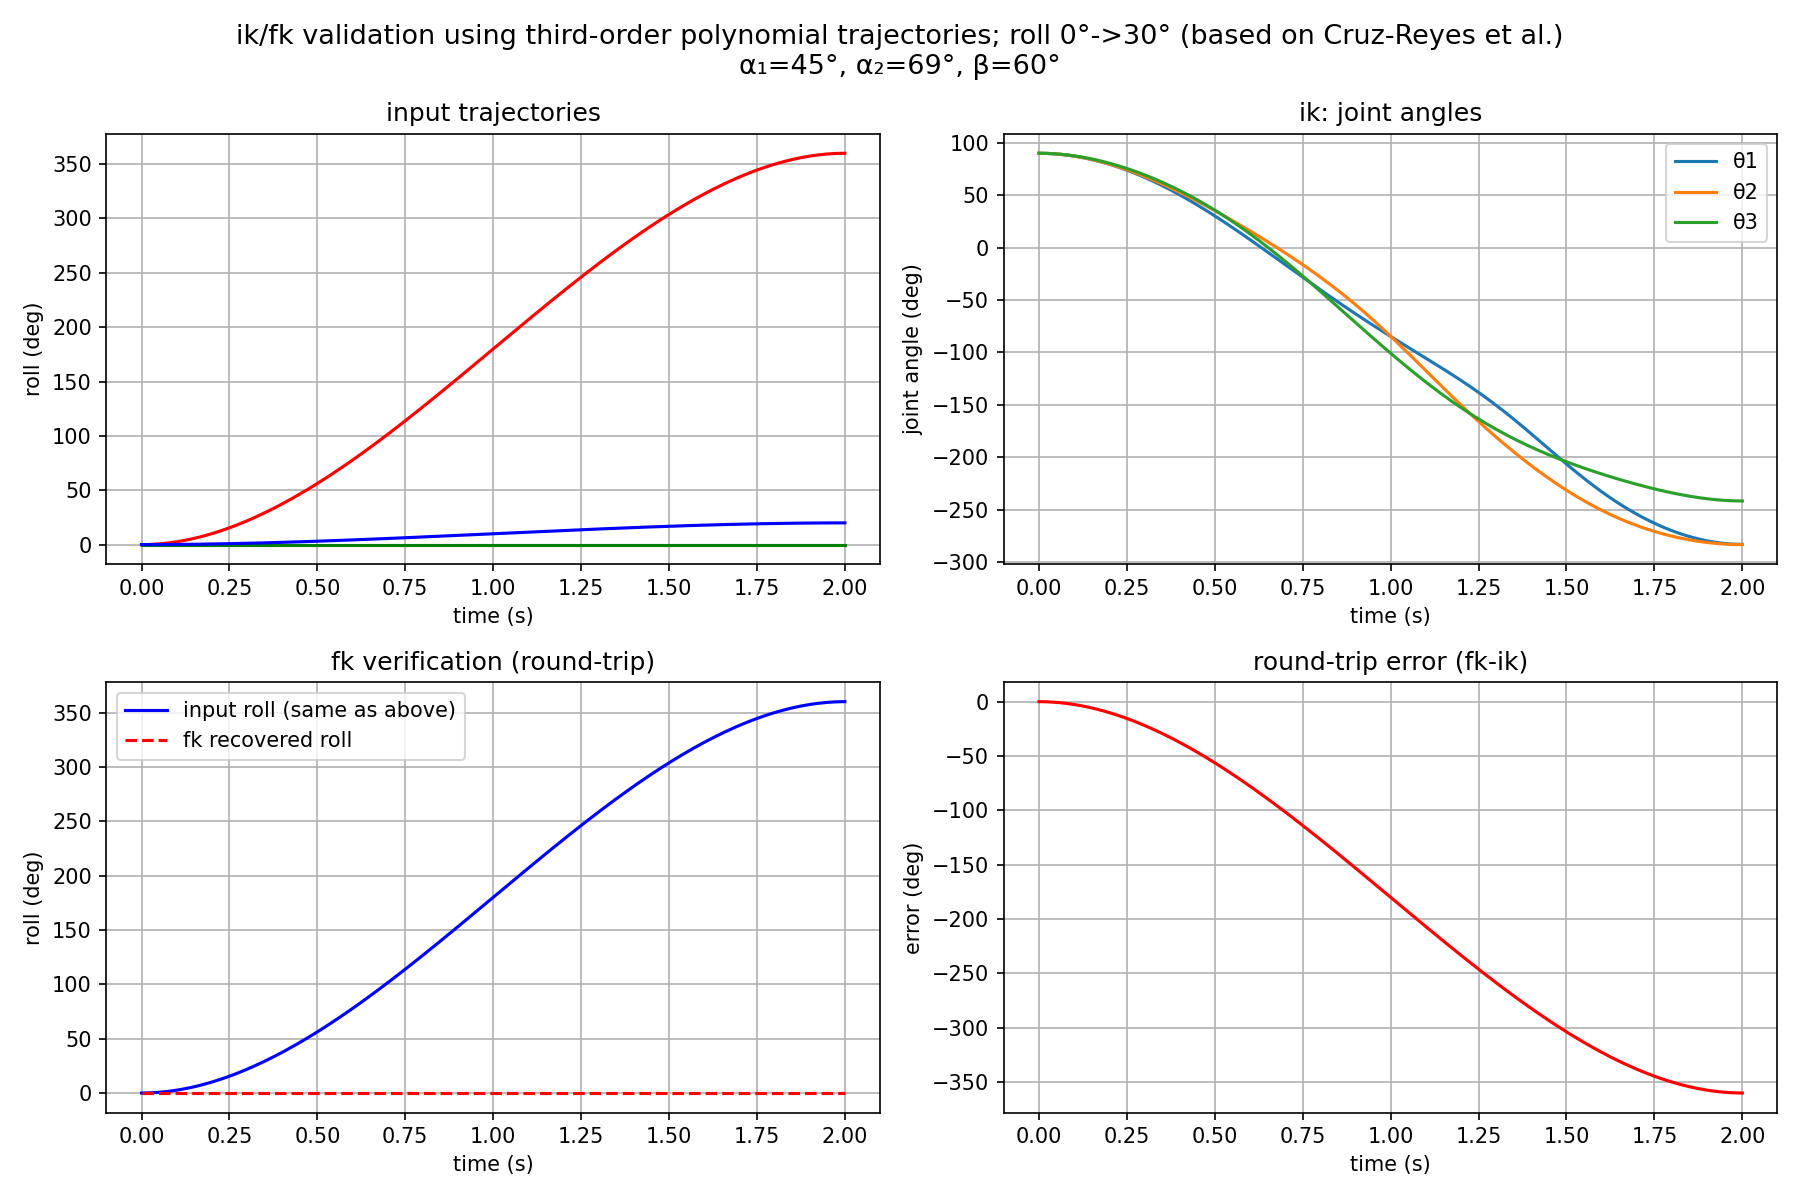
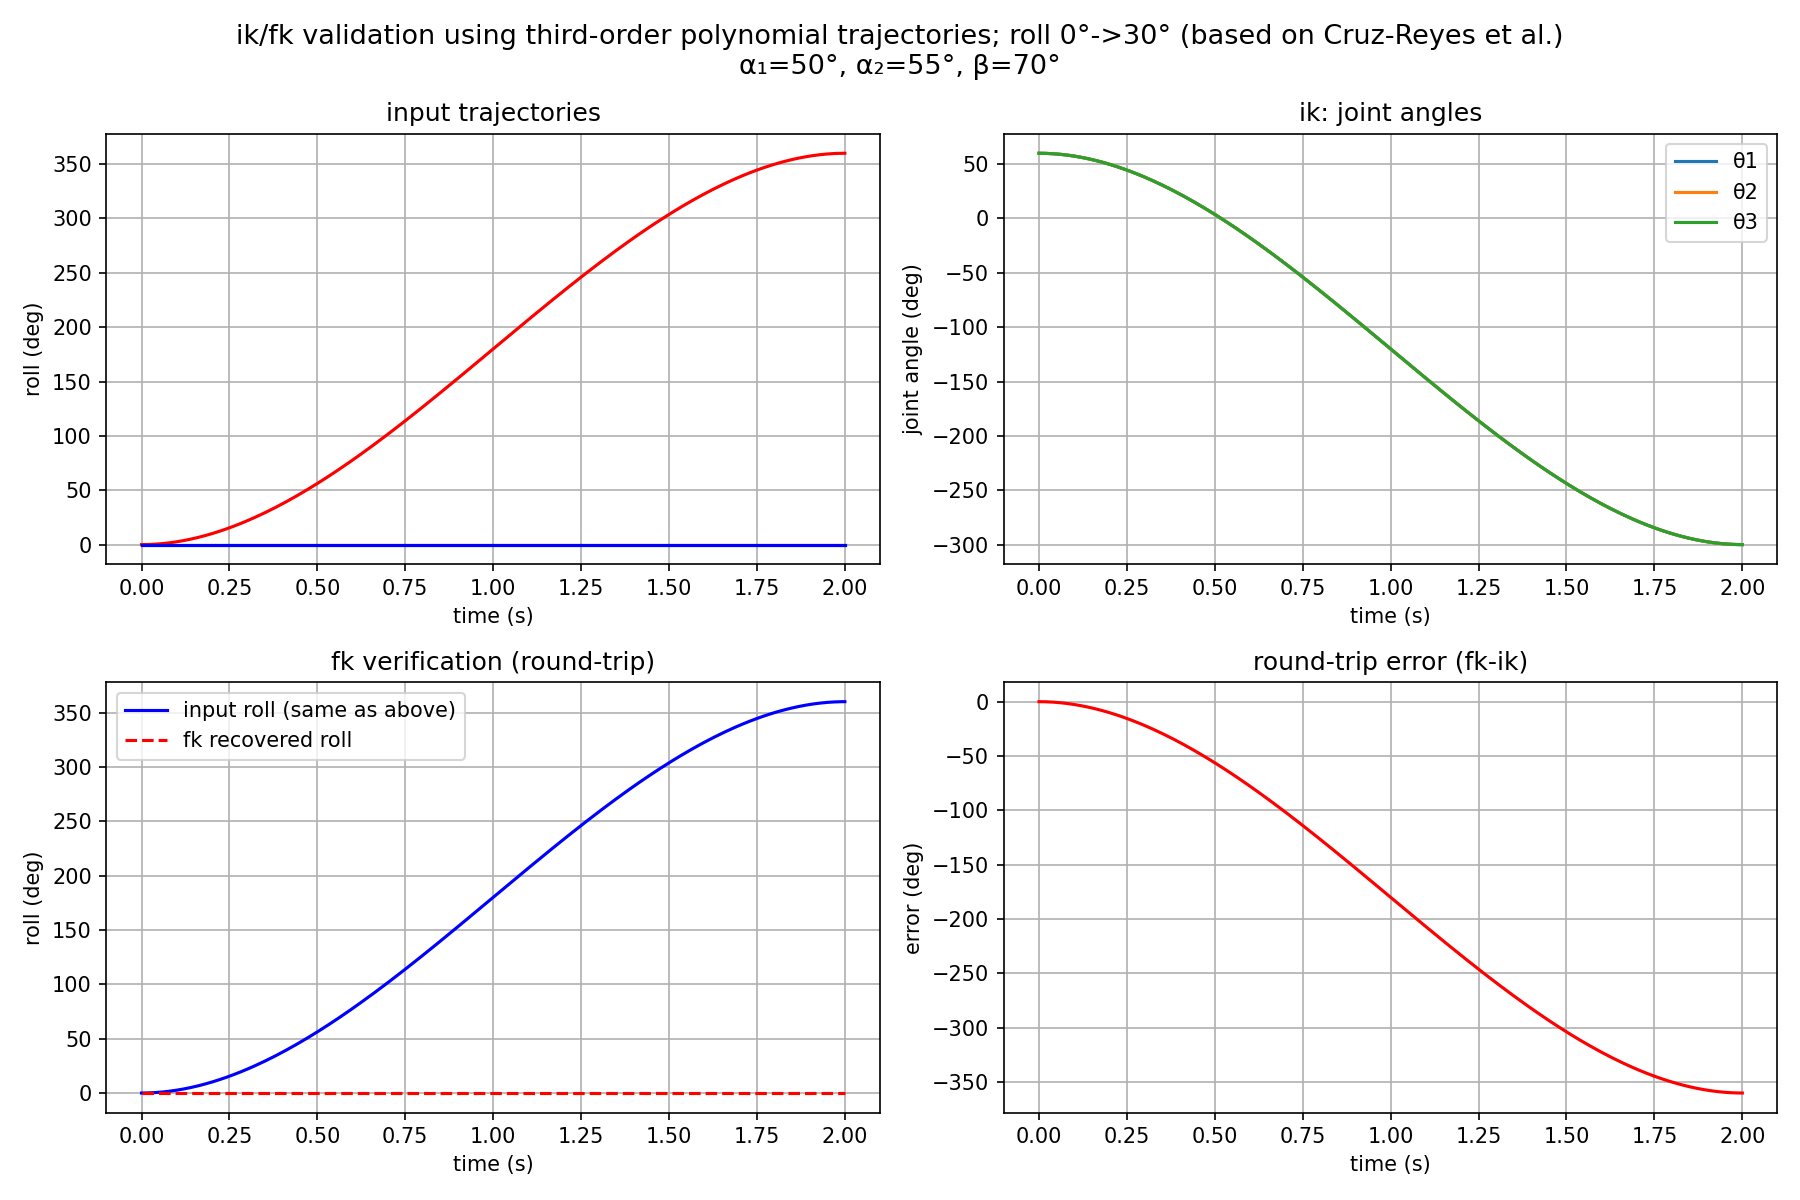
change machine params v1->v2

diff --git a/spm_firmware/driver_teensy41/src/kinematics/ik.cpp b/spm_firmware/driver_teensy41/src/kinematics/ik.cpp
@@ -64,18 +64,17 @@ static void get_vi_home(float beta, float vi_home[3][3]) {
 
 // ─── Branch tracking ───────────────────────────────────────
 // Persistent previous joint angles for continuity
-// Initialized to home position [BETA, BETA, BETA]
 static float _prev_thetas[3] = {
-    1.5708f,   // joint 1 home = beta (validated in Python)
-    1.5708f,   // joint 2 home = beta
-    1.5708f    // joint 3 home = beta
+    1.0472f,   // joint homes = 60 deg (validated in Python)
+    1.0472f,
+    1.0472f
 };
 static bool _initialized = false;
 
 void ik_reset_home() { // RESET TO 60 FOR V2, 90 FOR V1 
-    _prev_thetas[0] = 1.5708f;
-    _prev_thetas[1] = 1.5708f;
-    _prev_thetas[2] = 1.5708f;
+    _prev_thetas[0] = 1.0472f;
+    _prev_thetas[1] = 1.0472f;
+    _prev_thetas[2] = 1.0472f;
     _initialized = true;
 }
 

diff --git a/spm_firmware/driver_teensy41/include/machine_params.h b/spm_firmware/driver_teensy41/include/machine_params.h
@@ -1,16 +1,15 @@
 #pragma once
 
 // kinematics constants
-// USING V1 FOR TESTING
-#define ALPHA1  0.785398f // 45 deg -> rad
-#define ALPHA2  1.20942591f // 69.295 deg -> rad
-#define BETA    1.0472f // 60 deg -> rad
-#define HOME_ANGLE 90.0f // home position angle in degrees
+#define ALPHA1  0.872665f // 50 deg -> rad
+#define ALPHA2  0.95235636f // 54.566 deg -> rad
+#define BETA    1.22173f // 70 deg -> rad
+#define HOME_ANGLE 60.0f // home position angle in degrees
 
 // motion transmission constants
-#define TEETH_INPUT     9
-#define TEETH_OUTPUT    25
-#define GEAR_RATIO      (25.0f/9.0f)
+#define TEETH_INPUT     48
+#define TEETH_OUTPUT    60
+#define GEAR_RATIO      (60.0f/48.0f)
 
 // stepper parameters
 #define STEPS_PER_REV       200

diff --git a/spm_ws/validation/spm_kinematics.py b/spm_ws/validation/spm_kinematics.py
@@ -5,9 +5,9 @@ from mpl_toolkits.mplot3d import Axes3D
 from scipy.optimize import least_squares
 
 # machine parameters
-ALPHA1 = np.radians(45.0)   # actuated joint cone angle
-ALPHA2 = np.radians(69.295)   # distal link angle
-BETA   = np.radians(60.0)   # platform joint angle
+ALPHA1 = np.radians(50.0)   # actuated joint cone angle
+ALPHA2 = np.radians(54.566)   # distal link angle
+BETA   = np.radians(70.0)   # platform joint angle
 
 # rotation matrices
 def Rx(a):

diff --git a/spm_ws/validation/kinematics_validation.py b/spm_ws/validation/kinematics_validation.py
@@ -23,9 +23,9 @@ def main():
     t_f    = 2.0 # final time general
     t_pitch = 2.0 # final time for roll command
 
-    roll_f = np.radians(360.0) # final positions
+    roll_f = np.radians(0.0) # final positions
     pitch_f = np.radians(0.0)
-    yaw_f = np.radians(20.0)
+    yaw_f = np.radians(0.0)
     N      = int(t_f * 100) # generally
     times  = np.linspace(0, t_f, N)
 
